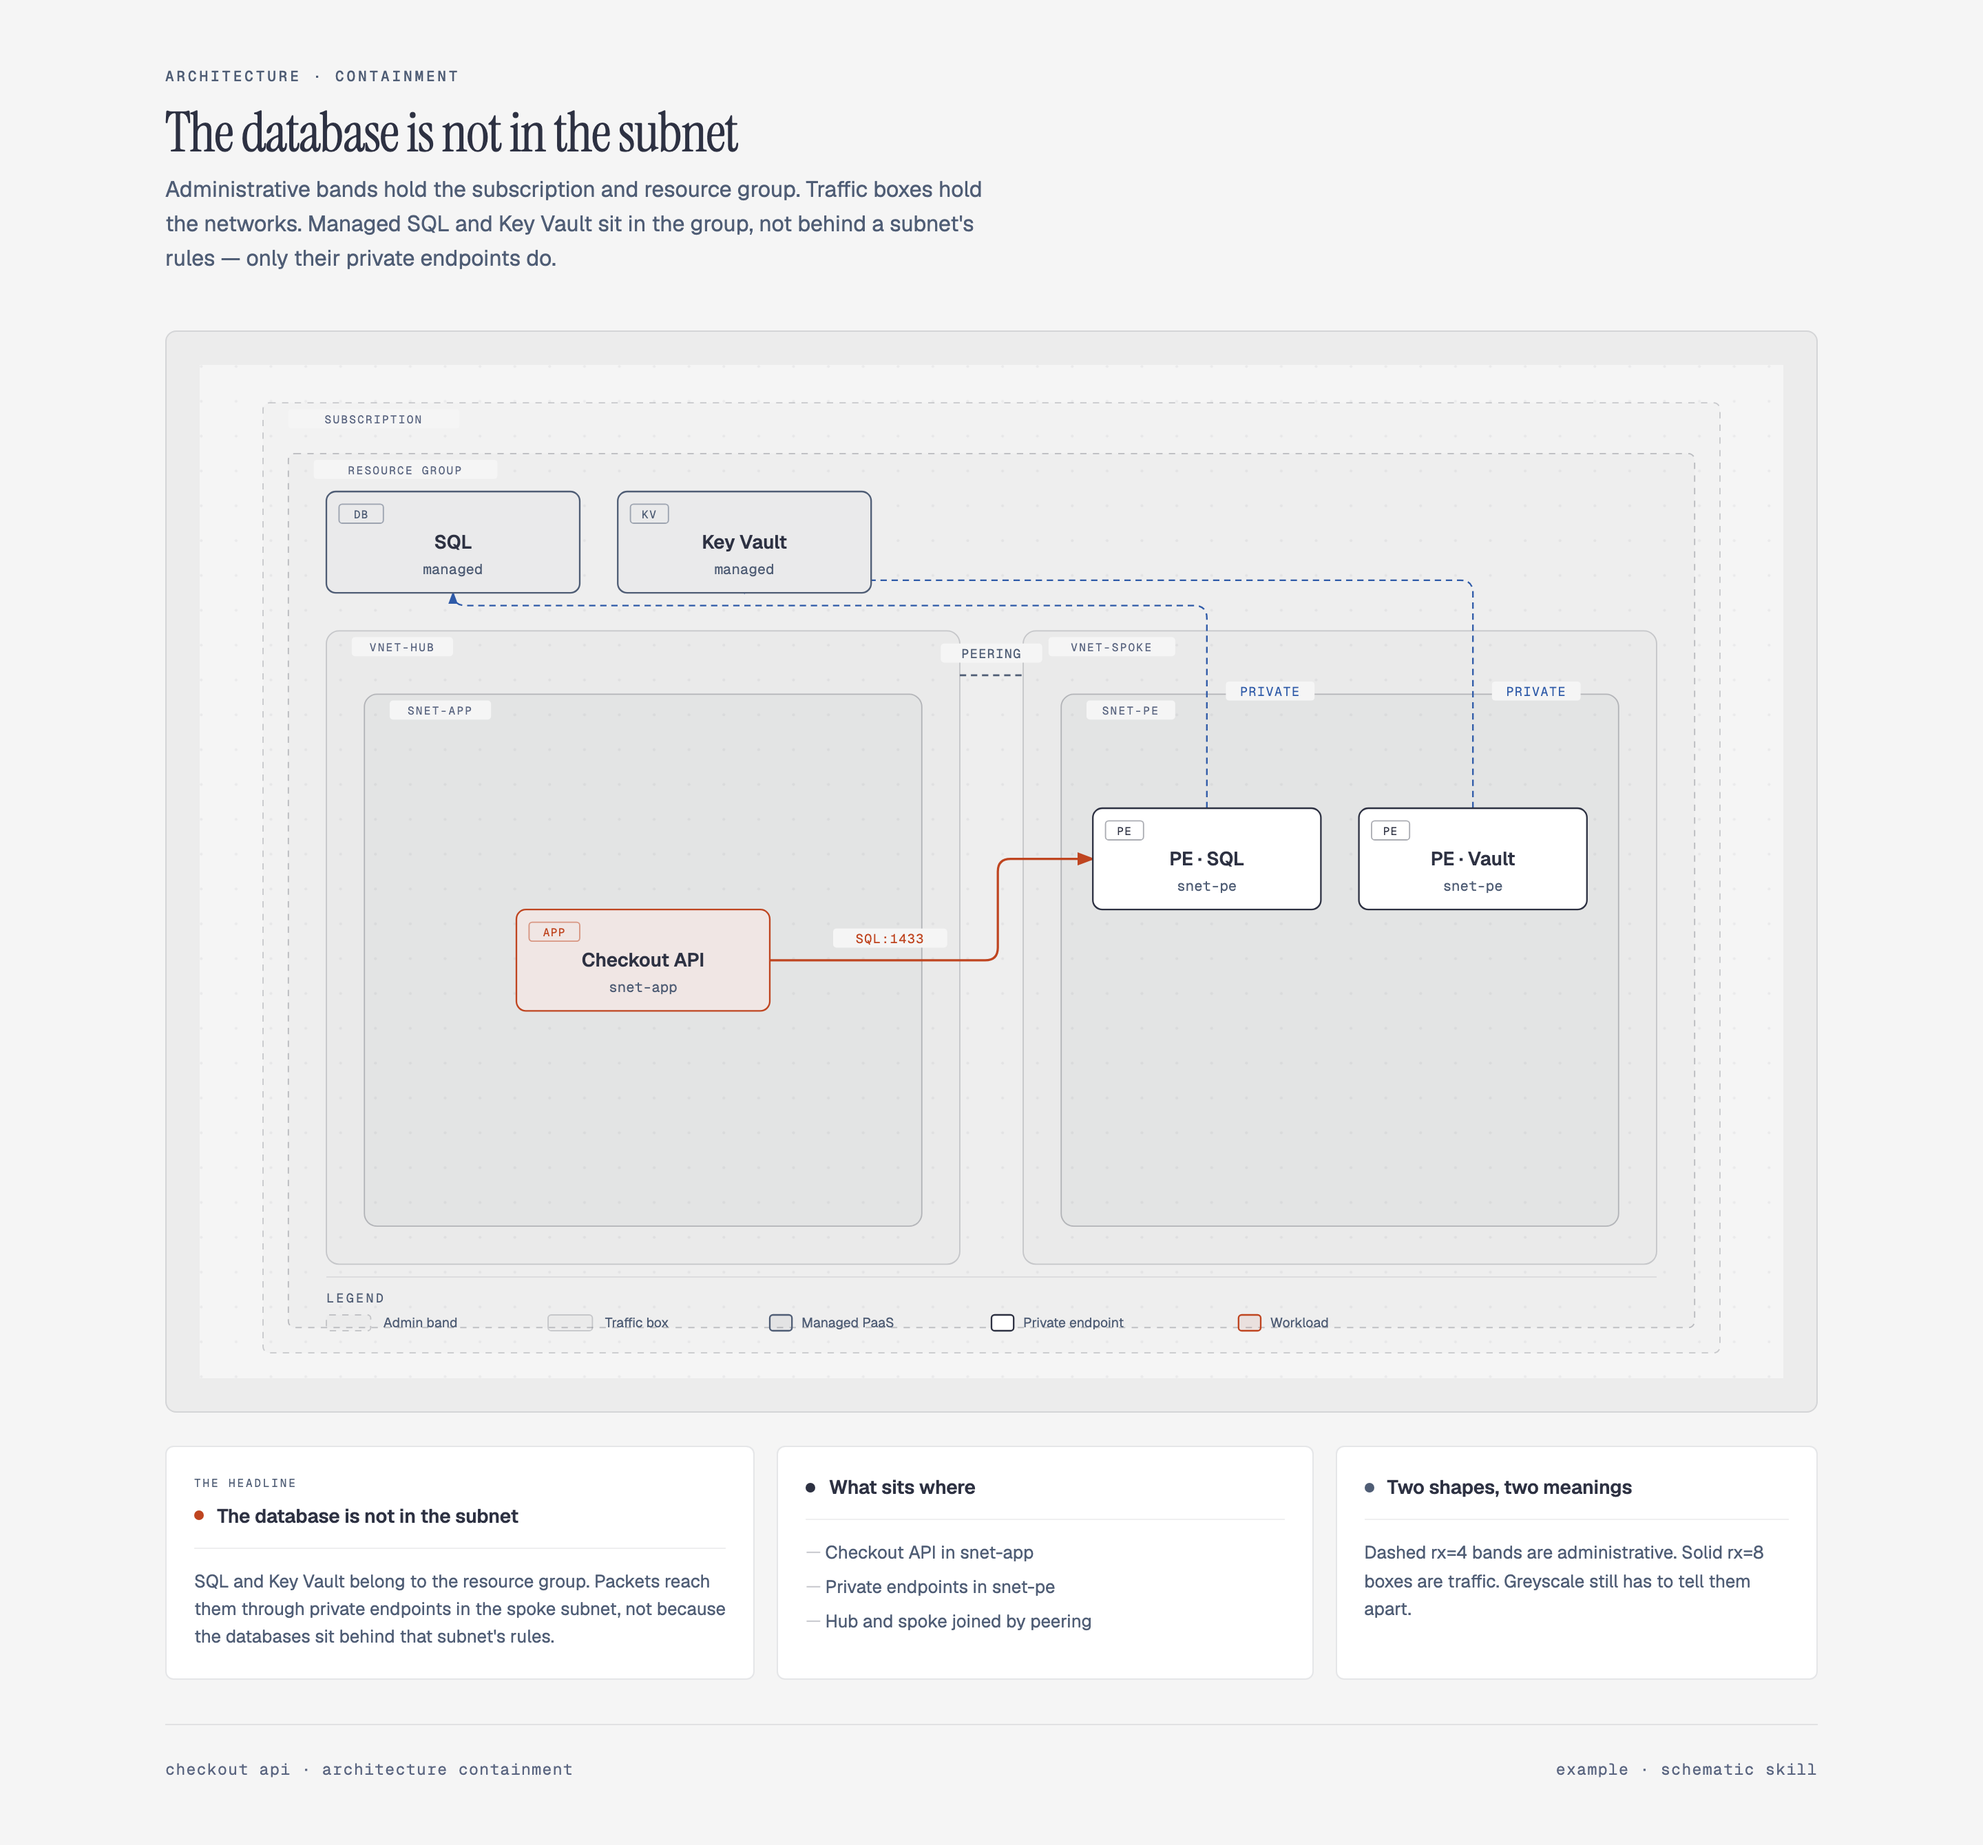
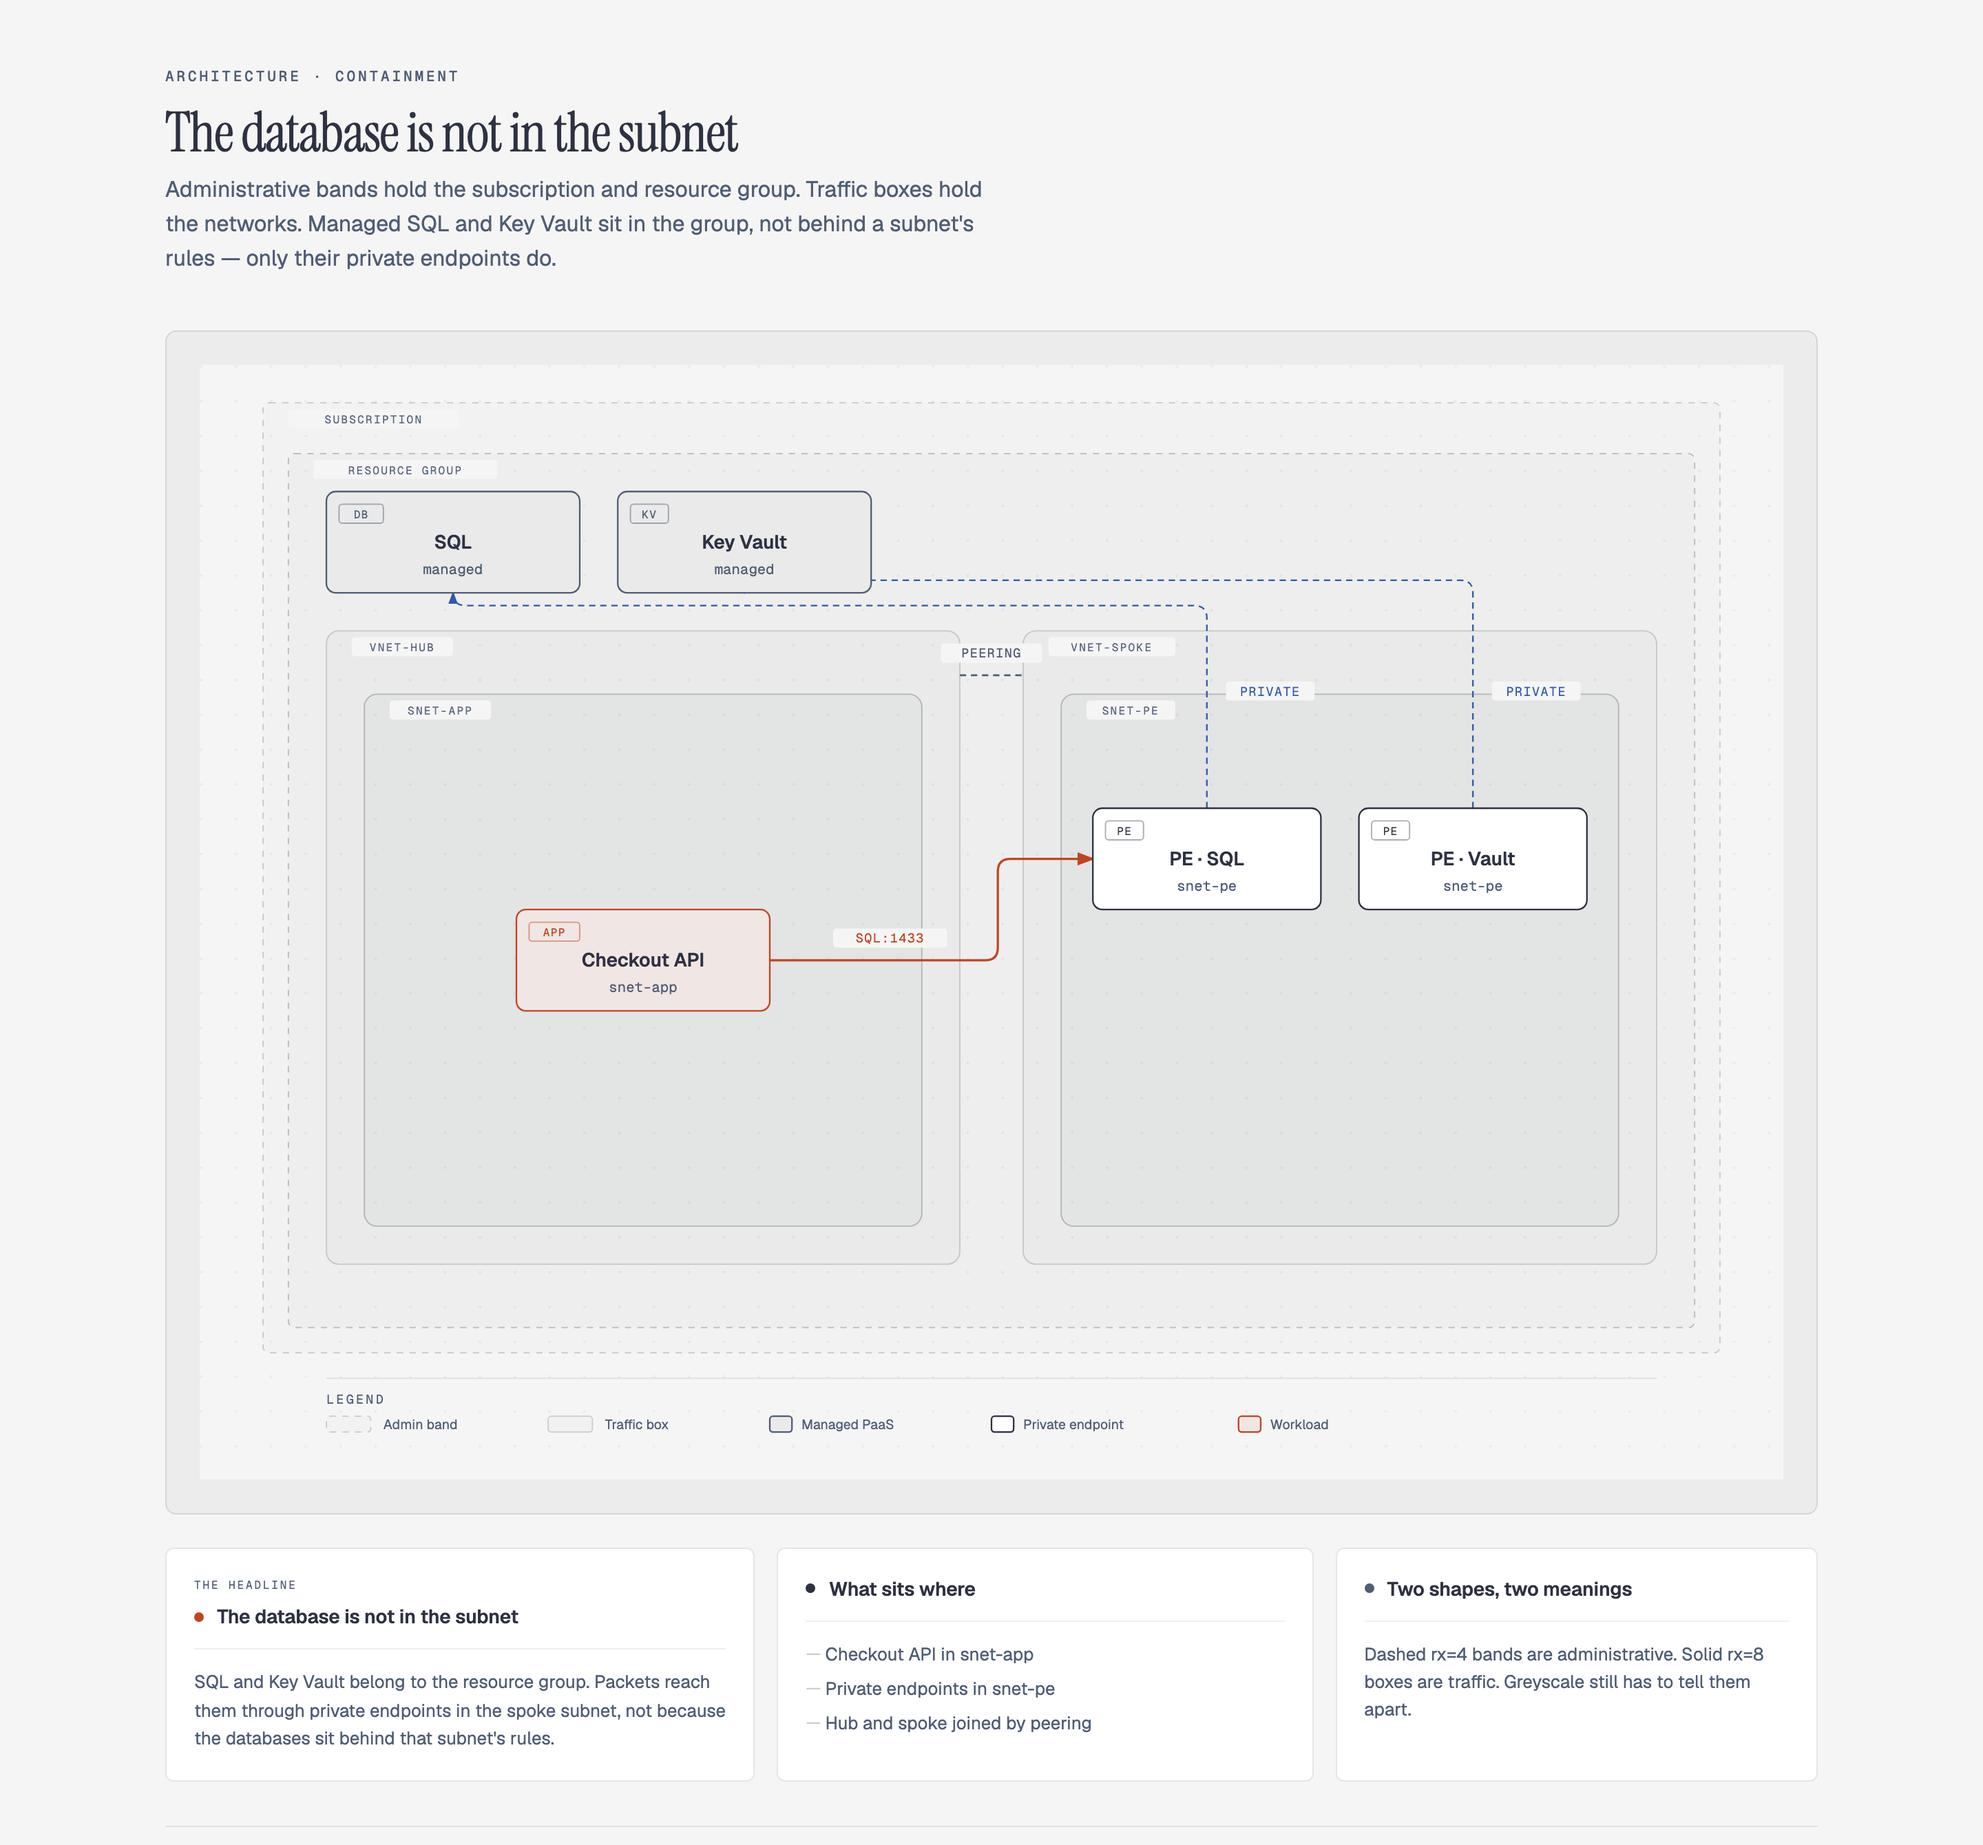
fix(architecture): move containment legend clear of the scope bands
The legend sat on the resource group's bottom edge, so the dashed border ran through the legend text. Move it below the subscription band and grow the viewBox to fit.

Changed region(s): [[0.0938, 0.8052, 0.375, 0.9601], [0.6875, 0.8052, 0.875, 0.9291], [0.4062, 0.8362, 0.5312, 0.9601]]

diff --git a/skills/diagram-design/assets/example-architecture-containment-dark.html b/skills/diagram-design/assets/example-architecture-containment-dark.html
@@ -58,7 +58,7 @@
     <p class="eyebrow">Architecture · containment</p>
     <h1>The database is not in the subnet</h1>
     <div class="diagram-container">
-      <svg viewBox="0 0 1000 640" xmlns="http://www.w3.org/2000/svg" role="img"
+      <svg viewBox="0 0 1000 704" xmlns="http://www.w3.org/2000/svg" role="img"
            aria-labelledby="architecture-containment-dark-title architecture-containment-dark-desc"
            data-grammar="architecture-containment">
         <title id="architecture-containment-dark-title">The database is not in the subnet</title>
@@ -186,18 +186,18 @@
         </g>
 
         <!-- Legend -->
-        <line x1="80" y1="576" x2="920" y2="576" stroke="rgba(245,245,245,0.10)" stroke-width="0.8"/>
-        <text x="80" y="592" fill="#bfc0c0" font-size="8" font-family="'Geist Mono', monospace" letter-spacing="0.18em">LEGEND</text>
-        <rect x="80" y="600" width="28" height="10" rx="2" fill="rgba(245,245,245,0.015)" stroke="rgba(245,245,245,0.22)" stroke-width="0.8" stroke-dasharray="4,4"/>
-        <text x="116" y="608" fill="#bfc0c0" font-size="8.5" font-family="'Geist', sans-serif">Admin band</text>
-        <rect x="220" y="600" width="28" height="10" rx="2" fill="rgba(245,245,245,0.02)" stroke="rgba(245,245,245,0.20)" stroke-width="0.8"/>
-        <text x="256" y="608" fill="#bfc0c0" font-size="8.5" font-family="'Geist', sans-serif">Traffic box</text>
-        <rect x="360" y="600" width="14" height="10" rx="2" fill="rgba(245,245,245,0.05)" stroke="#bfc0c0" stroke-width="1"/>
-        <text x="380" y="608" fill="#bfc0c0" font-size="8.5" font-family="'Geist', sans-serif">Managed PaaS</text>
-        <rect x="500" y="600" width="14" height="10" rx="2" fill="rgba(245,245,245,0.04)" stroke="#f5f5f5" stroke-width="1"/>
-        <text x="520" y="608" fill="#bfc0c0" font-size="8.5" font-family="'Geist', sans-serif">Private endpoint</text>
-        <rect x="656" y="600" width="14" height="10" rx="2" fill="rgba(240,138,89,0.08)" stroke="#f08a59" stroke-width="1"/>
-        <text x="676" y="608" fill="#bfc0c0" font-size="8.5" font-family="'Geist', sans-serif">Workload</text>
+        <line x1="80" y1="640" x2="920" y2="640" stroke="rgba(245,245,245,0.10)" stroke-width="0.8"/>
+        <text x="80" y="656" fill="#bfc0c0" font-size="8" font-family="'Geist Mono', monospace" letter-spacing="0.18em">LEGEND</text>
+        <rect x="80" y="664" width="28" height="10" rx="2" fill="rgba(245,245,245,0.015)" stroke="rgba(245,245,245,0.22)" stroke-width="0.8" stroke-dasharray="4,4"/>
+        <text x="116" y="672" fill="#bfc0c0" font-size="8.5" font-family="'Geist', sans-serif">Admin band</text>
+        <rect x="220" y="664" width="28" height="10" rx="2" fill="rgba(245,245,245,0.02)" stroke="rgba(245,245,245,0.20)" stroke-width="0.8"/>
+        <text x="256" y="672" fill="#bfc0c0" font-size="8.5" font-family="'Geist', sans-serif">Traffic box</text>
+        <rect x="360" y="664" width="14" height="10" rx="2" fill="rgba(245,245,245,0.05)" stroke="#bfc0c0" stroke-width="1"/>
+        <text x="380" y="672" fill="#bfc0c0" font-size="8.5" font-family="'Geist', sans-serif">Managed PaaS</text>
+        <rect x="500" y="664" width="14" height="10" rx="2" fill="rgba(245,245,245,0.04)" stroke="#f5f5f5" stroke-width="1"/>
+        <text x="520" y="672" fill="#bfc0c0" font-size="8.5" font-family="'Geist', sans-serif">Private endpoint</text>
+        <rect x="656" y="664" width="14" height="10" rx="2" fill="rgba(240,138,89,0.08)" stroke="#f08a59" stroke-width="1"/>
+        <text x="676" y="672" fill="#bfc0c0" font-size="8.5" font-family="'Geist', sans-serif">Workload</text>
       </svg>
     </div>
   </div>

diff --git a/skills/diagram-design/assets/example-architecture-containment.html b/skills/diagram-design/assets/example-architecture-containment.html
@@ -58,7 +58,7 @@
     <p class="eyebrow">Architecture · containment</p>
     <h1>The database is not in the subnet</h1>
     <div class="diagram-container">
-      <svg viewBox="0 0 1000 640" xmlns="http://www.w3.org/2000/svg" role="img"
+      <svg viewBox="0 0 1000 704" xmlns="http://www.w3.org/2000/svg" role="img"
            aria-labelledby="architecture-containment-title architecture-containment-desc"
            data-grammar="architecture-containment">
         <title id="architecture-containment-title">The database is not in the subnet</title>
@@ -186,18 +186,18 @@
         </g>
 
         <!-- Legend -->
-        <line x1="80" y1="576" x2="920" y2="576" stroke="rgba(45,49,66,0.10)" stroke-width="0.8"/>
-        <text x="80" y="592" fill="#4f5d75" font-size="8" font-family="'Geist Mono', monospace" letter-spacing="0.18em">LEGEND</text>
-        <rect x="80" y="600" width="28" height="10" rx="2" fill="rgba(45,49,66,0.015)" stroke="rgba(45,49,66,0.22)" stroke-width="0.8" stroke-dasharray="4,4"/>
-        <text x="116" y="608" fill="#4f5d75" font-size="8.5" font-family="'Geist', sans-serif">Admin band</text>
-        <rect x="220" y="600" width="28" height="10" rx="2" fill="rgba(45,49,66,0.02)" stroke="rgba(45,49,66,0.20)" stroke-width="0.8"/>
-        <text x="256" y="608" fill="#4f5d75" font-size="8.5" font-family="'Geist', sans-serif">Traffic box</text>
-        <rect x="360" y="600" width="14" height="10" rx="2" fill="rgba(45,49,66,0.05)" stroke="#4f5d75" stroke-width="1"/>
-        <text x="380" y="608" fill="#4f5d75" font-size="8.5" font-family="'Geist', sans-serif">Managed PaaS</text>
-        <rect x="500" y="600" width="14" height="10" rx="2" fill="#ffffff" stroke="#2d3142" stroke-width="1"/>
-        <text x="520" y="608" fill="#4f5d75" font-size="8.5" font-family="'Geist', sans-serif">Private endpoint</text>
-        <rect x="656" y="600" width="14" height="10" rx="2" fill="rgba(191,69,32,0.08)" stroke="#bf4520" stroke-width="1"/>
-        <text x="676" y="608" fill="#4f5d75" font-size="8.5" font-family="'Geist', sans-serif">Workload</text>
+        <line x1="80" y1="640" x2="920" y2="640" stroke="rgba(45,49,66,0.10)" stroke-width="0.8"/>
+        <text x="80" y="656" fill="#4f5d75" font-size="8" font-family="'Geist Mono', monospace" letter-spacing="0.18em">LEGEND</text>
+        <rect x="80" y="664" width="28" height="10" rx="2" fill="rgba(45,49,66,0.015)" stroke="rgba(45,49,66,0.22)" stroke-width="0.8" stroke-dasharray="4,4"/>
+        <text x="116" y="672" fill="#4f5d75" font-size="8.5" font-family="'Geist', sans-serif">Admin band</text>
+        <rect x="220" y="664" width="28" height="10" rx="2" fill="rgba(45,49,66,0.02)" stroke="rgba(45,49,66,0.20)" stroke-width="0.8"/>
+        <text x="256" y="672" fill="#4f5d75" font-size="8.5" font-family="'Geist', sans-serif">Traffic box</text>
+        <rect x="360" y="664" width="14" height="10" rx="2" fill="rgba(45,49,66,0.05)" stroke="#4f5d75" stroke-width="1"/>
+        <text x="380" y="672" fill="#4f5d75" font-size="8.5" font-family="'Geist', sans-serif">Managed PaaS</text>
+        <rect x="500" y="664" width="14" height="10" rx="2" fill="#ffffff" stroke="#2d3142" stroke-width="1"/>
+        <text x="520" y="672" fill="#4f5d75" font-size="8.5" font-family="'Geist', sans-serif">Private endpoint</text>
+        <rect x="656" y="664" width="14" height="10" rx="2" fill="rgba(191,69,32,0.08)" stroke="#bf4520" stroke-width="1"/>
+        <text x="676" y="672" fill="#4f5d75" font-size="8.5" font-family="'Geist', sans-serif">Workload</text>
       </svg>
     </div>
   </div>

diff --git a/skills/diagram-design/assets/example-architecture-containment-full.html b/skills/diagram-design/assets/example-architecture-containment-full.html
@@ -52,7 +52,7 @@
     </div>
 
     <div class="diagram-container">
-      <svg viewBox="0 0 1000 640" xmlns="http://www.w3.org/2000/svg" role="img"
+      <svg viewBox="0 0 1000 704" xmlns="http://www.w3.org/2000/svg" role="img"
            aria-labelledby="architecture-containment-full-title architecture-containment-full-desc"
            data-grammar="architecture-containment">
         <title id="architecture-containment-full-title">The database is not in the subnet</title>
@@ -180,18 +180,18 @@
         </g>
 
         <!-- Legend -->
-        <line x1="80" y1="576" x2="920" y2="576" stroke="rgba(45,49,66,0.10)" stroke-width="0.8"/>
-        <text x="80" y="592" fill="#4f5d75" font-size="8" font-family="'Geist Mono', monospace" letter-spacing="0.18em">LEGEND</text>
-        <rect x="80" y="600" width="28" height="10" rx="2" fill="rgba(45,49,66,0.015)" stroke="rgba(45,49,66,0.22)" stroke-width="0.8" stroke-dasharray="4,4"/>
-        <text x="116" y="608" fill="#4f5d75" font-size="8.5" font-family="'Geist', sans-serif">Admin band</text>
-        <rect x="220" y="600" width="28" height="10" rx="2" fill="rgba(45,49,66,0.02)" stroke="rgba(45,49,66,0.20)" stroke-width="0.8"/>
-        <text x="256" y="608" fill="#4f5d75" font-size="8.5" font-family="'Geist', sans-serif">Traffic box</text>
-        <rect x="360" y="600" width="14" height="10" rx="2" fill="rgba(45,49,66,0.05)" stroke="#4f5d75" stroke-width="1"/>
-        <text x="380" y="608" fill="#4f5d75" font-size="8.5" font-family="'Geist', sans-serif">Managed PaaS</text>
-        <rect x="500" y="600" width="14" height="10" rx="2" fill="#ffffff" stroke="#2d3142" stroke-width="1"/>
-        <text x="520" y="608" fill="#4f5d75" font-size="8.5" font-family="'Geist', sans-serif">Private endpoint</text>
-        <rect x="656" y="600" width="14" height="10" rx="2" fill="rgba(191,69,32,0.08)" stroke="#bf4520" stroke-width="1"/>
-        <text x="676" y="608" fill="#4f5d75" font-size="8.5" font-family="'Geist', sans-serif">Workload</text>
+        <line x1="80" y1="640" x2="920" y2="640" stroke="rgba(45,49,66,0.10)" stroke-width="0.8"/>
+        <text x="80" y="656" fill="#4f5d75" font-size="8" font-family="'Geist Mono', monospace" letter-spacing="0.18em">LEGEND</text>
+        <rect x="80" y="664" width="28" height="10" rx="2" fill="rgba(45,49,66,0.015)" stroke="rgba(45,49,66,0.22)" stroke-width="0.8" stroke-dasharray="4,4"/>
+        <text x="116" y="672" fill="#4f5d75" font-size="8.5" font-family="'Geist', sans-serif">Admin band</text>
+        <rect x="220" y="664" width="28" height="10" rx="2" fill="rgba(45,49,66,0.02)" stroke="rgba(45,49,66,0.20)" stroke-width="0.8"/>
+        <text x="256" y="672" fill="#4f5d75" font-size="8.5" font-family="'Geist', sans-serif">Traffic box</text>
+        <rect x="360" y="664" width="14" height="10" rx="2" fill="rgba(45,49,66,0.05)" stroke="#4f5d75" stroke-width="1"/>
+        <text x="380" y="672" fill="#4f5d75" font-size="8.5" font-family="'Geist', sans-serif">Managed PaaS</text>
+        <rect x="500" y="664" width="14" height="10" rx="2" fill="#ffffff" stroke="#2d3142" stroke-width="1"/>
+        <text x="520" y="672" fill="#4f5d75" font-size="8.5" font-family="'Geist', sans-serif">Private endpoint</text>
+        <rect x="656" y="664" width="14" height="10" rx="2" fill="rgba(191,69,32,0.08)" stroke="#bf4520" stroke-width="1"/>
+        <text x="676" y="672" fill="#4f5d75" font-size="8.5" font-family="'Geist', sans-serif">Workload</text>
       </svg>
     </div>
 
